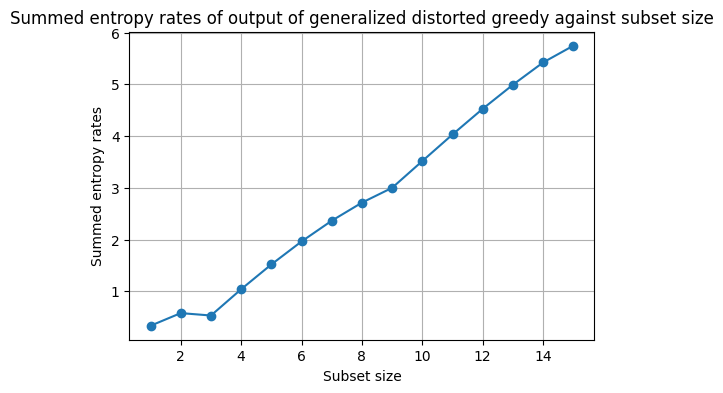
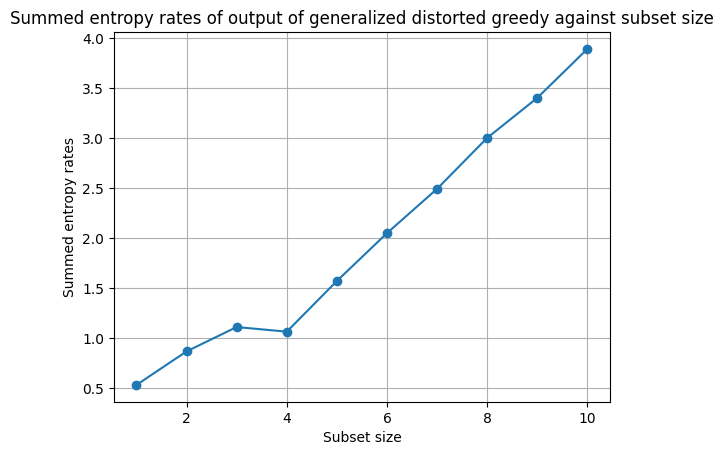
revise generalized distorted greedy implementation

diff --git a/entropy_rate/greedy.py b/entropy_rate/greedy.py
@@ -8,17 +8,17 @@ import matplotlib.pyplot as plt
 # -----------------------------------------------------------------------
 #  Device Selection
 # -----------------------------------------------------------------------
-#if torch.backends.mps.is_available():
-#    device = torch.device("mps")
-#    print("Using MPS device")
-#elif torch.cuda.is_available():
-#    device = torch.device("cuda")
-#    print("Using CUDA device")
-#else:
-#    device = torch.device("cpu")
-#    print("Using CPU device")
+if torch.backends.mps.is_available():
+    device = torch.device("mps")
+    print("Using MPS device")
+elif torch.cuda.is_available():
+    device = torch.device("cuda")
+    print("Using CUDA device")
+else:
+    device = torch.device("cpu")
+    print("Using CPU device")
 
-device = 'cpu'
+#device = 'cpu'
 # -----------------------------------------------------------------------
 #  Bernoulli–Laplace: Hahn polynomials, state space, etc.
 # -----------------------------------------------------------------------
@@ -104,7 +104,7 @@ def stat_dist_MC_generation(state_space, l_values, N):
         for xi, li in zip(x, l_values):
             num *= math.comb(li, xi)
         pi_vals.append(num/denom)
-    arr = np.array(pi_vals, dtype=np.float64)
+    arr = np.array(pi_vals, dtype=np.float32)
     return arr / arr.sum()
 
 def get_multi_indices(total, length):
@@ -152,7 +152,7 @@ def torch_MC_generation(N, d, l_values, s):
     num_states  = len(state_space)
     pi_np       = stat_dist_MC_generation(state_space, l_values, N)
     # Use double precision for pi
-    pi          = torch.tensor(pi_np, dtype=torch.float64, device=device)
+    pi          = torch.tensor(pi_np, dtype=torch.float32, device=device)
 
     # 2) Eigenvalues
     eigenvals   = compute_eigenvalues(N, s, l_values)
@@ -162,16 +162,16 @@ def torch_MC_generation(N, d, l_values, s):
     for n in range(N+1):
         multi_indices_n = get_multi_indices(n, d-1)
         # float64
-        M_n = np.zeros((num_states, len(multi_indices_n)), dtype=np.float64)
+        M_n = np.zeros((num_states, len(multi_indices_n)), dtype=np.float32)
         for i, x in enumerate(state_space):
             for j, m in enumerate(multi_indices_n):
                 val = multivariate_hahn(m, x, l_values, N)
                 M_n[i,j] = val
         # Convert to torch double
-        M_n_list.append(torch.tensor(M_n, dtype=torch.float64, device=device))
+        M_n_list.append(torch.tensor(M_n, dtype=torch.float32, device=device))
 
     # 4) Build A = sum_{n} beta_n * (M_n @ M_n.T)
-    A = torch.zeros((num_states, num_states), dtype=torch.float64, device=device)
+    A = torch.zeros((num_states, num_states), dtype=torch.float32, device=device)
     for n in range(N+1):
         beta_n = eigenvals[n]
         M_n    = M_n_list[n]
@@ -220,7 +220,7 @@ def keep_S_in_mat(P, state_space, pi, S):
     partial_map = {}
     partial_list = []
     next_idx     = 0
-    full_to_reduced = np.empty(M, dtype=np.int64)
+    full_to_reduced = np.empty(M, dtype=np.int32)
 
     for i, x in enumerate(state_space):
         xS = tuple(x[k] for k in S_list)
@@ -233,12 +233,12 @@ def keep_S_in_mat(P, state_space, pi, S):
     num_reduced = len(partial_list)
 
     # Accumulate pi_S
-    pi_S_np = np.zeros(num_reduced, dtype=np.float64)
+    pi_S_np = np.zeros(num_reduced, dtype=np.float32)
     for i in range(M):
         pi_S_np[ full_to_reduced[i] ] += pi_cpu[i]
 
     # Accumulate transitions
-    P_S_num = np.zeros((num_reduced, num_reduced), dtype=np.float64)
+    P_S_num = np.zeros((num_reduced, num_reduced), dtype=np.float32)
     for x_idx in range(M):
         xS_idx = full_to_reduced[x_idx]
         w_x    = pi_cpu[x_idx]
@@ -279,8 +279,8 @@ def compute_entropy_rate(P, pi):
     """
     H(P) = - sum_{x,y} pi[x]*P[x,y]*log(P[x,y]).
     """
-    pi_64 = pi.double()
-    P_64  = P.double()
+    pi_64 = pi.float()
+    P_64  = P.float()
     # Because we might have P=0 => log(0) = -inf => 0 * -inf => nan,
     # we do a small epsilon inside log.
     val = -torch.sum( pi_64.unsqueeze(1)* P_64 * torch.log(P_64 + 1e-15) )
@@ -303,7 +303,6 @@ def greedy(f, X, k):
         plot_vals.append(f(S))
     return plot_vals
 
-
 def plot_objective_per_iteration(f_values):
     """
     f_values: list of submod function values over iterations.
@@ -322,7 +321,7 @@ def plot_objective_per_iteration(f_values):
 # -----------------------------------------------------------------------
 if __name__=="__main__":
     # For demonstration:
-    N = 3
+    N = 8
     d = 15
     l_values = [5]*d
     s = 1

diff --git a/entropy_rate/distorted_greedy.py b/entropy_rate/distorted_greedy.py
@@ -294,7 +294,6 @@ def distorted_greedy(f, c, U, m):
     Distorted greedy with the set function f, cost c, ground set U.
     """
     S = set()
-    results = []
     for i in range(m):
         best_gain = float('-inf')
         best_e    = None
@@ -303,17 +302,12 @@ def distorted_greedy(f, c, U, m):
             if gain>best_gain:
                 best_gain = gain
                 best_e    = e
-        
-        # Optionally only add if gain>0
         if best_e is not None:
             check_gain = ((1 - 1/m)**(m - (i+1))) * (f(S|{best_e})- f(S)) - c({best_e})
             if check_gain>0:
                 S.add(best_e)
 
-        print(f"Iteration {i+1}, S = {S}")
-        # track f(S) for plotting
-        results.append( f(S) - c(S))
-    return S, results
+    return S
 
 def plot_objective_per_iteration(f_values):
     """
@@ -332,21 +326,17 @@ def plot_objective_per_iteration(f_values):
 #  MAIN
 # -----------------------------------------------------------------------
 if __name__=="__main__":
-    # For demonstration:
-    N = 3
+    N = 4
     d = 15
     l_values = [5]*d
     s = 1
 
-    # Generate the chain with debug checks
     state_space, pi, P = torch_MC_generation(N, d, l_values, s)
     print(f"Generated Bernoulli–Laplace chain with dimension d={d}. #states={len(state_space)}")
 
-    # We'll compute the base chain's entropy once
     base_entropy = compute_entropy_rate(P, pi).item()
     print(f"Entropy rate of the full chain = {base_entropy}")
 
-    # Example "modular_func": sum_{elem in S} [ H(leaveOut(elem)) - H(full) ]
     def modular_func(S):
         val = 0.0
         for e in S:
@@ -354,17 +344,20 @@ if __name__=="__main__":
             val += compute_entropy_rate(P_minus, pi_minus).item() - base_entropy
         return val
 
-    # Example "submod_func": f(S) = H( keep_S_in_mat(...) ) + modular_func(S)
     def submod_func(S):
         _, piS, PS = keep_S_in_mat(P, state_space, pi, S)
         return compute_entropy_rate(PS, piS).item() + modular_func(S)
 
-    # Distorted Greedy
     U = set(range(d))
-    chosen_subset, f_values = distorted_greedy(submod_func, modular_func, U, m=d)
+    f_values = []
+
+    for m in range(1, d+1):
+        chosen_subset = distorted_greedy(submod_func, modular_func, U, m)
+        f_val = submod_func(chosen_subset)
+        f_values.append(f_val)
+        print(f"Cardinality constraint {m}; Subset chosen: {chosen_subset}; Value: {f_val}")
 
     print(f"\nDistorted Greedy finished. Subset chosen = {chosen_subset}")
     print("f-values:", f_values)
 
-    # Plot
     plot_objective_per_iteration(f_values)

diff --git a/entropy_rate/generalized_distorted_greedy.py b/entropy_rate/generalized_distorted_greedy.py
@@ -252,24 +252,16 @@ def distorted_greedy_k_submod(g, c, V, m, k):
     m is total cardinality bound: sum_j |S[j]| ≤ m.
     """
     S = [set() for _ in range(k)]
-    f_values = []
 
     for i in range(m):
         best_gain = float('-inf')
         best_j    = None
         best_e    = None
 
-        current_size = sum(len(S_j) for S_j in S)
-        if current_size >= m:
-            break
+        factor = (1.0 - 1.0/m)**(m - (i+1))
 
         for j in range(k):
             for e in (V[j] - S[j]):
-                if current_size + 1 > m:
-                    continue
-
-                factor = (1.0 - 1.0/m)**(m - (i+1))
-
                 old_g = g(S)
                 old_c = c(S)
                 S[j].add(e)
@@ -286,13 +278,10 @@ def distorted_greedy_k_submod(g, c, V, m, k):
                     best_j = j
                     best_e = e
 
-        if best_gain > 0 and (best_j is not None) and (best_e is not None):
+        if best_gain > 0:
             S[best_j].add(best_e)
 
-        print(f"Step {i+1}: Set chosen: {[[(elem + 1) for elem in S_j] for S_j in S]}, f(S) = {g(S) - c(S)}")
-        f_values.append(g(S) - c(S))
-
-    return S, f_values
+    return S
 
 # ------------------------------------------------------
 #  MAIN Example
@@ -342,17 +331,20 @@ if __name__ == "__main__":
         total += k_modular_c(S)
         return total
 
-    m = 15
-
-    chosen_S, f_vals = distorted_greedy_k_submod(k_submod_g, k_modular_c, V, m, k)
+    f_vals = []
+    for m in range(1, d + 1):
+        S = distorted_greedy_k_submod(k_submod_g, k_modular_c, V, m, k)
+        f_val = k_submod_g(S) - k_modular_c(S)
+        f_vals.append(f_val)
+        print(f"Cardinality constraint {m}; Subset chosen: {S}; Value: {f_val}")
 
     print("\nDistorted Greedy completed.")
-    print("Objective values by iteration:", f_vals)
+    print("Record:", f_vals)
 
-    plt.figure()
-    plt.plot(range(1, len(f_vals)+1), f_vals, marker='o')
-    plt.xlabel("Subset size")
-    plt.ylabel("Summed entropy rates")
-    plt.title("Summed entropy rates of output of generalized distorted greedy against subset size")
-    plt.grid(True)
-    plt.show()
+    #plt.figure()
+    #plt.plot(range(1, len(f_vals)+1), f_vals, marker='o')
+    #plt.xlabel("Subset size")
+    #plt.ylabel("Summed entropy rates")
+    #plt.title("Summed entropy rates of output of generalized distorted greedy against subset size")
+    #plt.grid(True)
+    #plt.show()
